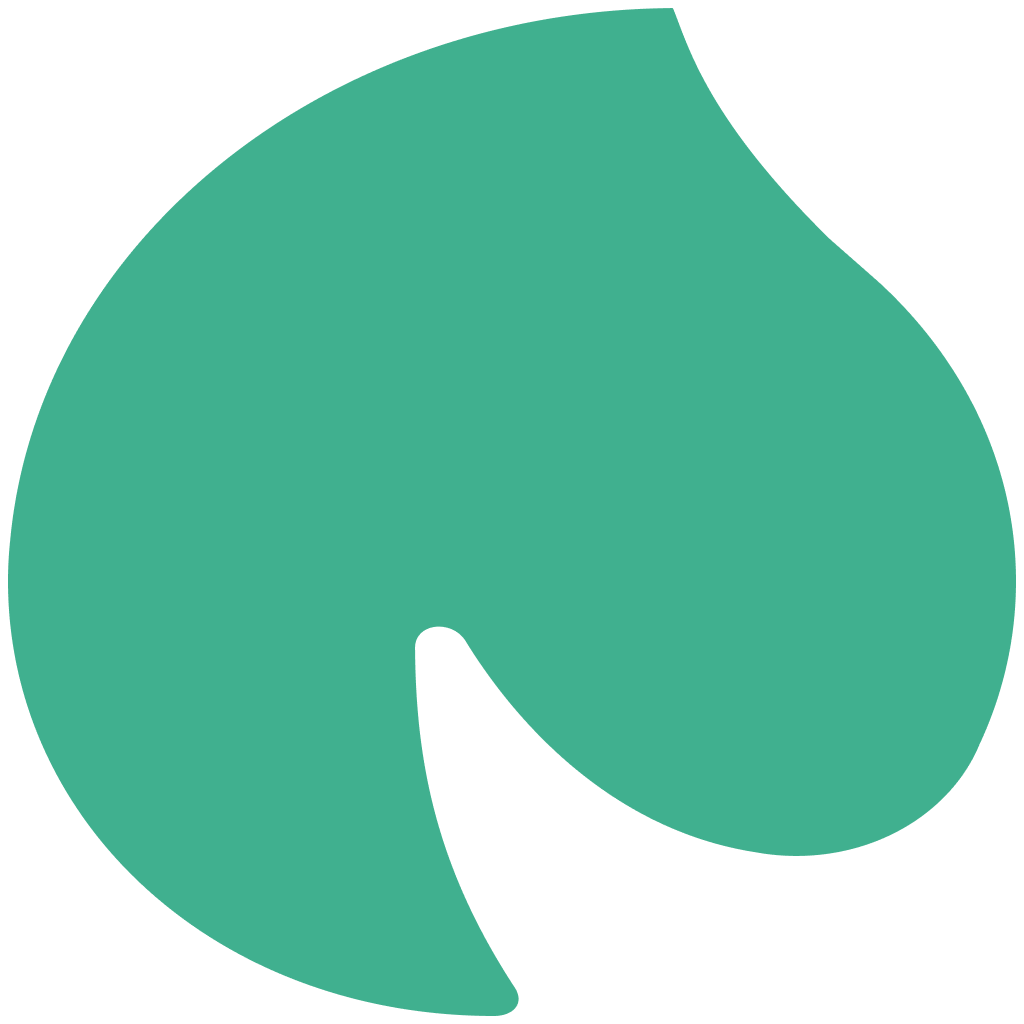
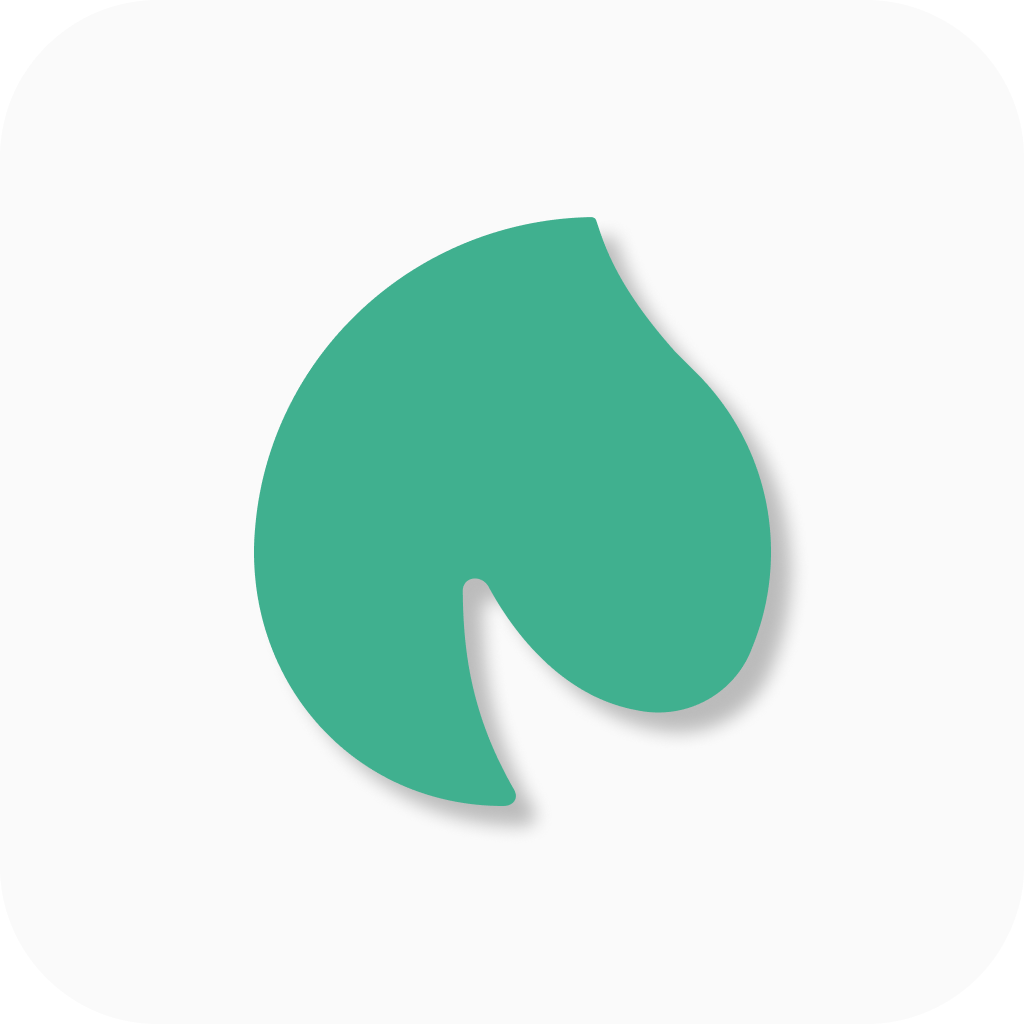
feat: 데이터 초기화 Alert추가 & 아이콘 변경 & 앱 이름 변경

diff --git a/src/screens/Setting/pages/ResetDataPage.tsx b/src/screens/Setting/pages/ResetDataPage.tsx
@@ -8,10 +8,6 @@ import { useState } from "react";
 import AsyncStorage from "@react-native-async-storage/async-storage";
 import * as Update from "expo-updates";
 
-interface StyledProps {
-  theme: ITheme;
-  nickname: string;
-}
 interface IContainerProps {
   theme: ITheme;
 }
@@ -20,7 +16,6 @@ const ResetDataPage = ({
   route,
   navigation,
 }: SettingStackScreenProps<"ResetData">) => {
-  const [nickname, setNickname] = useState<string>("");
   const navigateToBack = () => {
     navigation.goBack();
   };
@@ -35,7 +30,7 @@ const ResetDataPage = ({
         text: "네",
         onPress: () => {
           resetData();
-          Update.reloadAsync();
+          Alert.alert("앱이 초기화되었습니다.", "앱을 껐다 켜주세요 :)");
         },
         style: "destructive",
       },
